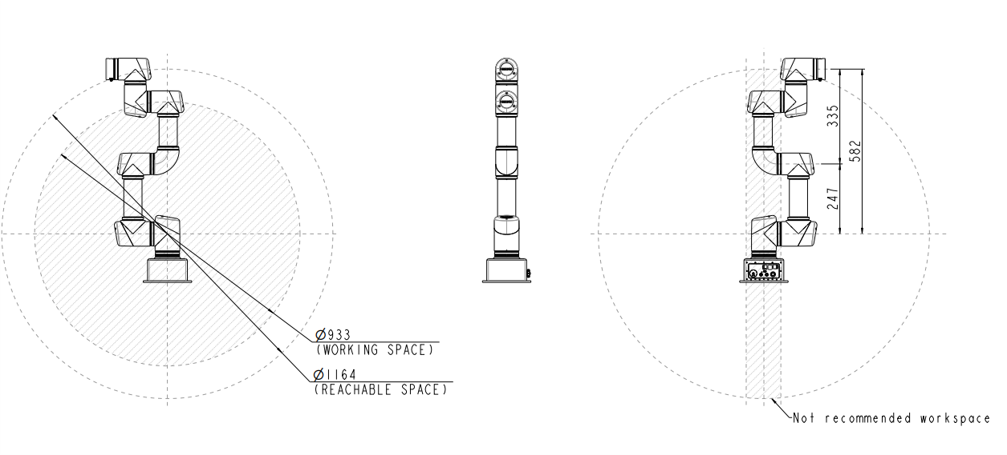
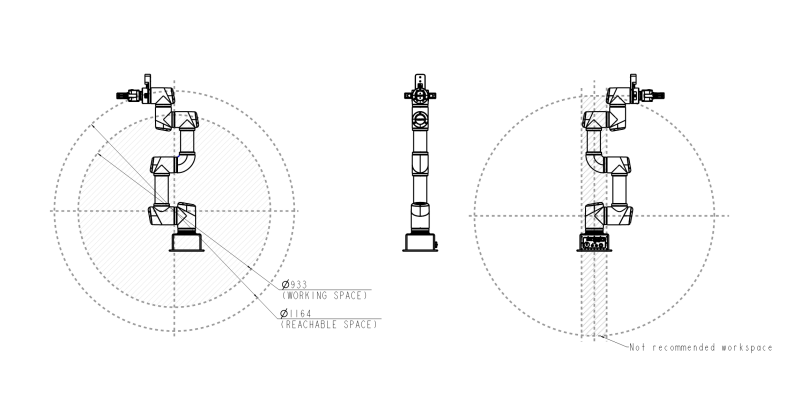
Update drawings

diff --git a/docs/en/platform/omy/specification.md b/docs/en/platform/omy/specification.md
@@ -44,9 +44,13 @@ page_number: 2
 
 ![](/assets/images/platform/omy/omy_follower_layout.png)
 
+- `Download` [PDF](https://www.robotis.com/service/download.php?no=2208), [DWG](https://www.robotis.com/service/download.php?no=2207), [STEP](https://www.robotis.com/service/download.php?no=2209)
+
 ## [[Follower] Workspace](#follower-workspace)
 
 ![](/assets/images/platform/omy/omy_follower_workspace.png)
+
+- `Download` [PDF](https://www.robotis.com/service/download.php?no=2213)
 
 ## [[Follower] Inertia](#follower-inertia)
 
@@ -214,6 +218,8 @@ page_number: 2
 ## [[Leader] Layout](#leader-layout)
 
 ![](/assets/images/platform/omy/omy_leader_layout.png)
+
+- `Download` [PDF](https://www.robotis.com/service/download.php?no=2211), [DWG](https://www.robotis.com/service/download.php?no=2210), [STEP](https://www.robotis.com/service/download.php?no=2212)
 
 ## [[Leader] Inertia](#leader-inertia)
 

diff --git a/docs/en/platform/omy/quick_start_guide.md b/docs/en/platform/omy/quick_start_guide.md
@@ -17,6 +17,20 @@ page_number: 3
 
 # [Quick Start Guide](#quick-start-guide)
 
+## [Hardware Setup](#hardware-setup)
+
+### OMY-3M
+<img src="/assets/images/platform/omy/hardware_setup_1.jpg"/>
+
+### OMY-F3M
+<img src="/assets/images/platform/omy/hardware_setup_2.jpg"/>
+
+### OMY-L100
+<img src="/assets/images/platform/omy/hardware_setup_3.jpg"/>
+
+### OMY-AI3M
+<img src="/assets/images/platform/omy/hardware_setup_4.jpg"/>
+
 ## [Power connection](#power-connection)
 
 <img src="/assets/images/platform/omy/omy_power.png" width="800"/>
